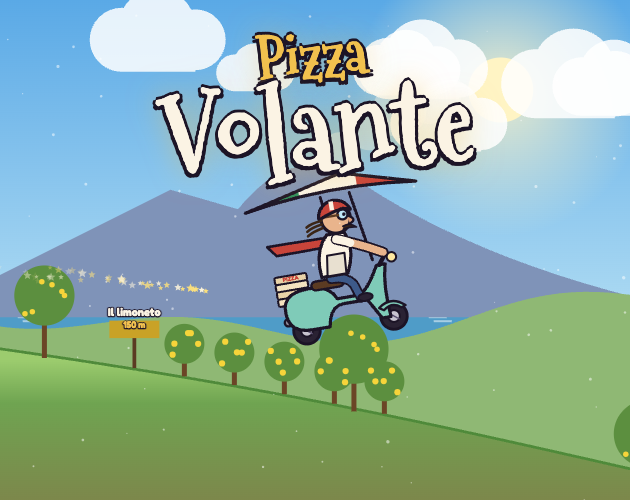
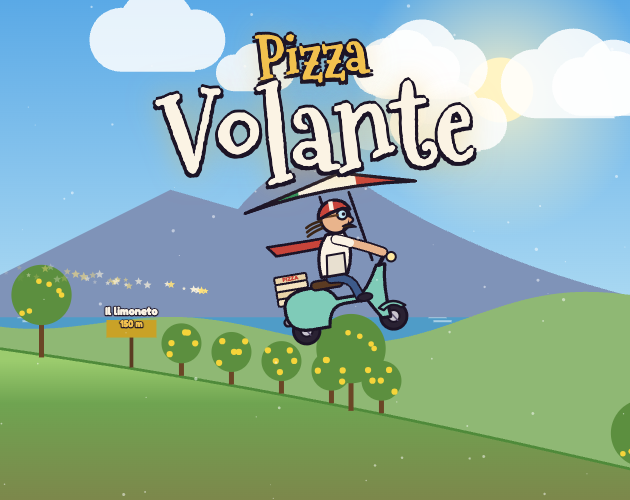
fix: HUD con spicchi di pizza al posto delle calze, villa a Posillipo

diff --git a/src/main.ts b/src/main.ts
@@ -1220,7 +1220,7 @@ function drawHud(v: View) {
   g.stroke();
   if (!small) label(g, "Plebiscito", bx + bw, by + 30, 12, "#f2c14e", "right");
 
-  // botti e calze (sotto i pulsanti in alto a destra)
+  // botti e pizze (sotto i pulsanti in alto a destra)
   const rx = W - pad;
   let ry = small ? by + 26 : pad + 70;
   const maxF = BOOST_FUEL[save.lv.botti];
@@ -1239,24 +1239,34 @@ function drawHud(v: View) {
     ry += 26;
   }
   const nS = SOCKS[save.lv.calze];
+  // spicchi di pizza: uno per ogni pizza rimasta
   for (let i = 0; i < nS; i++) {
-    const x = rx - 8 - i * 16;
+    const x = rx - 9 - i * 18;
     g.globalAlpha = i < socksLeft ? 1 : 0.25;
-    g.fillStyle = SOCK_COLORS[i % 4];
     g.strokeStyle = "#1c1426";
     g.lineWidth = 1.5;
     g.beginPath();
-    g.moveTo(x - 4, ry);
-    g.lineTo(x + 3, ry);
-    g.lineTo(x + 3, ry + 10);
-    g.lineTo(x + 7, ry + 13);
-    g.lineTo(x + 5, ry + 17);
-    g.lineTo(x - 4, ry + 15);
+    g.moveTo(x - 7, ry + 1);
+    g.quadraticCurveTo(x, ry - 2, x + 7, ry + 1);
+    g.lineTo(x, ry + 17);
     g.closePath();
+    g.fillStyle = "#f6d27a";
     g.fill();
     g.stroke();
-    g.fillStyle = "#fbf3e4";
-    g.fillRect(x - 4, ry, 7, 3);
+    g.fillStyle = "#c98a3a";
+    g.beginPath();
+    g.moveTo(x - 7, ry + 1);
+    g.quadraticCurveTo(x, ry - 2, x + 7, ry + 1);
+    g.quadraticCurveTo(x, ry + 2, x - 7, ry + 1);
+    g.fill();
+    g.fillStyle = "#c8443a";
+    for (const [dx, dy] of [[-2.5, 5], [2, 8], [-0.5, 12]]) {
+      g.beginPath();
+      g.arc(x + dx, ry + dy, 1.6, 0, Math.PI * 2);
+      g.fill();
+    }
+    g.fillStyle = "#3f8f4a";
+    g.fillRect(x + 1.5, ry + 4, 2, 1.2);
   }
   g.globalAlpha = 1;
 

diff --git a/src/scenery.ts b/src/scenery.ts
@@ -542,10 +542,22 @@ export function drawLandmarks(v: View, best: number) {
         break;
       }
       case "Posillipo":
+        // villa sul promontorio con la bandiera
         local(v, m.x + 50, ground(m.x + 50));
+        g.fillStyle = "#f0a88a";
+        g.fillRect(-5, 0, 10, 5);
+        g.fillStyle = "#c8643a";
+        g.fillRect(-5.5, 5, 11, 0.8);
+        g.fillStyle = "#3f6b5a";
+        for (const wx of [-3.5, -0.5, 2.5]) g.fillRect(wx, 2, 1, 1.6);
         g.fillStyle = "#3b2618";
-        g.fillRect(-0.2, 0, 0.4, 6);
-        g.fillRect(-1.6, 4, 3.2, 0.4);
+        g.fillRect(4, 5.8, 0.25, 4);
+        g.fillStyle = "#2f8f5b";
+        g.fillRect(4.25, 8.3, 0.8, 1.5);
+        g.fillStyle = "#fbf3e4";
+        g.fillRect(5.05, 8.3, 0.8, 1.5);
+        g.fillStyle = "#c8443a";
+        g.fillRect(5.85, 8.3, 0.8, 1.5);
         g.restore();
         break;
       case "L'acquedotto":

diff --git a/VERSIONI.md b/VERSIONI.md
@@ -9,3 +9,4 @@ Tempi in ora locale (27 novembre 2026). L'hash è quello del commit della versio
 | v03 | 6ee3a09 | 16:17 | 16:21 | La camera inquadra sempre il terreno (case e monumenti visibili anche in quota), scena finale a Piazza Navona con i fuochi |
 | v04 | 690ccb4 | 16:21 | 16:23 | Rampa iniziale più alta, banner più in alto, materiali itch (copertina, screenshot, page.md), README |
 | v05 | 334a35b | 16:27 | 16:34 | Nuovo tema: da "Vola, Befana!" a "Pizza Volante" (Gennarino sulla Vespa con l'ala, pizze nei panari, giornata di sole sul golfo con il Vesuvio, tappe napoletane, garage, mance in euro, finale al concerto di Capodanno in Piazza del Plebiscito); repo e cartella rinominati |
+| v05.1 | (vedi git log) | 16:36 | 16:37 | Fix: nell'HUD spicchi di pizza al posto delle calze, villa con bandiera a Posillipo al posto della croce, copertina e screenshot rifatti |
